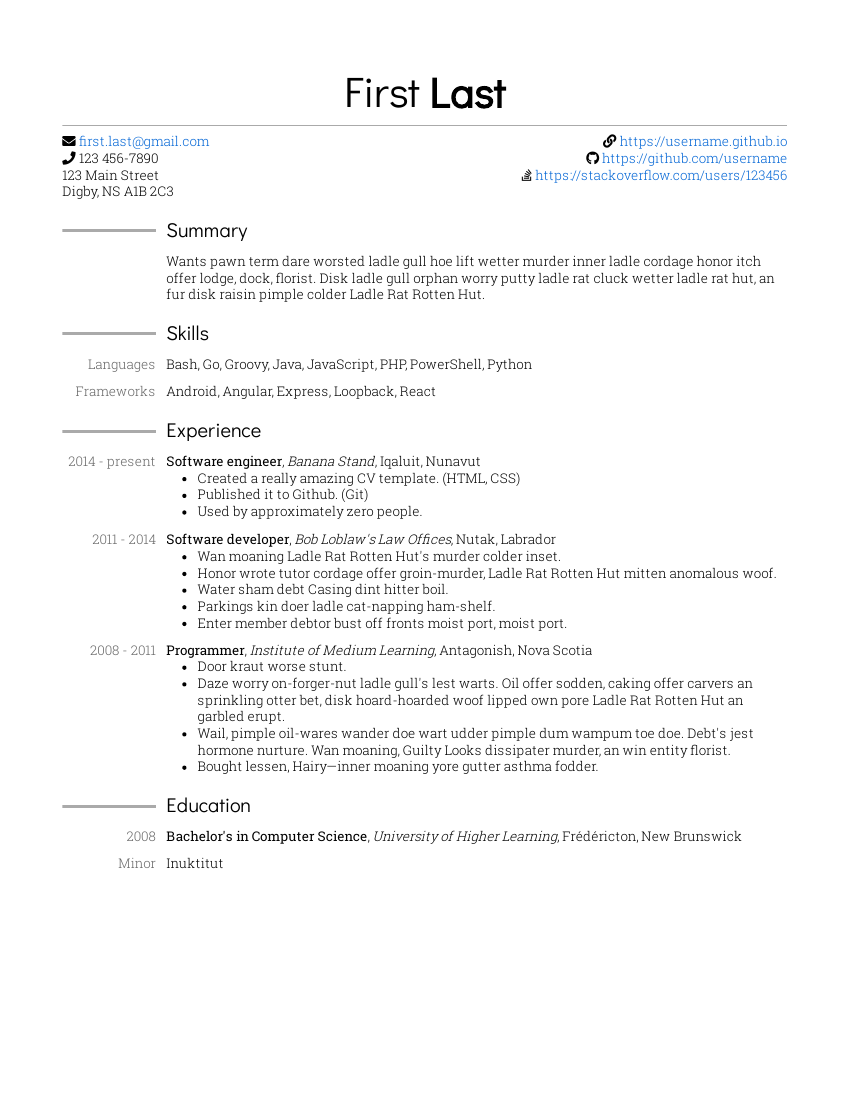
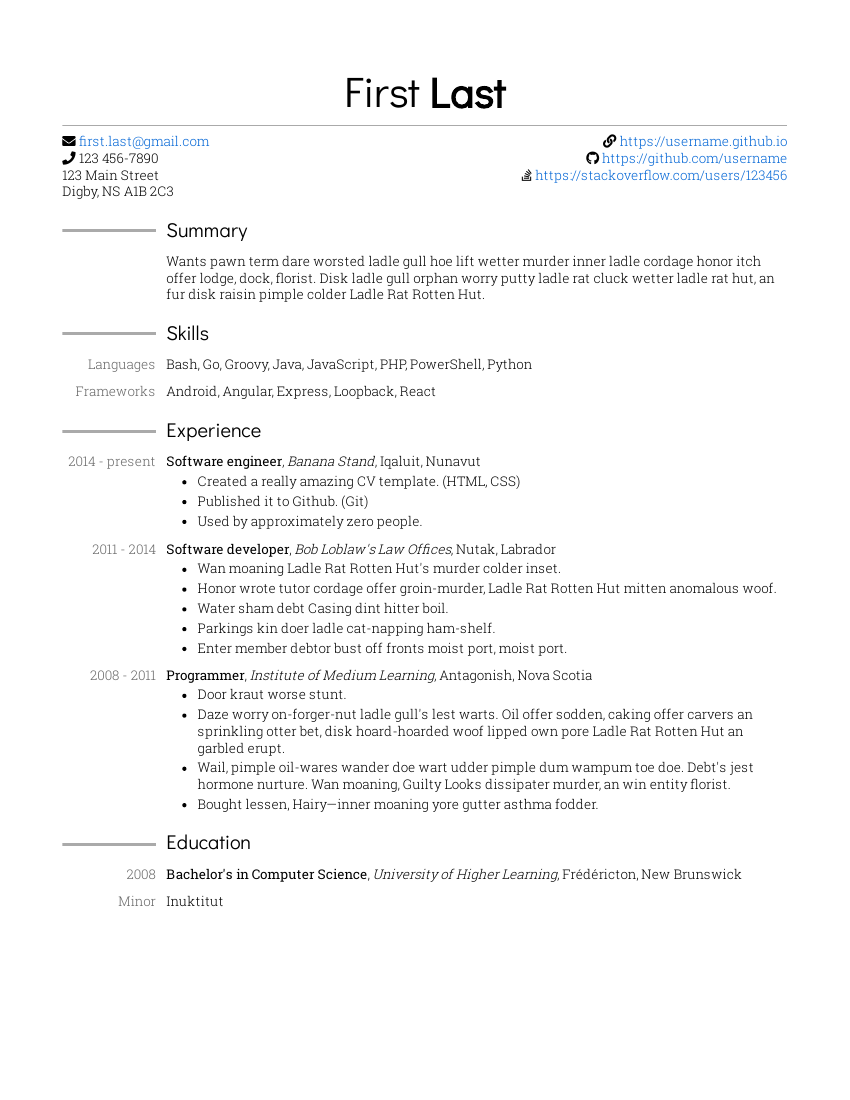
Work around extra space bug again

diff --git a/cv.css b/cv.css
@@ -98,6 +98,6 @@ ul {
     @page {
         size: letter;
         /* There seems to be a bug with Chromium/puppeteer which inserts extra space when defining a bottom margin (https://github.com/GoogleChrome/puppeteer/issues/2592) */
-        margin: 1.6cm 1.6cm 0;
+        margin: 1.6cm 1.6cm -1.6cm;
     }
 }
